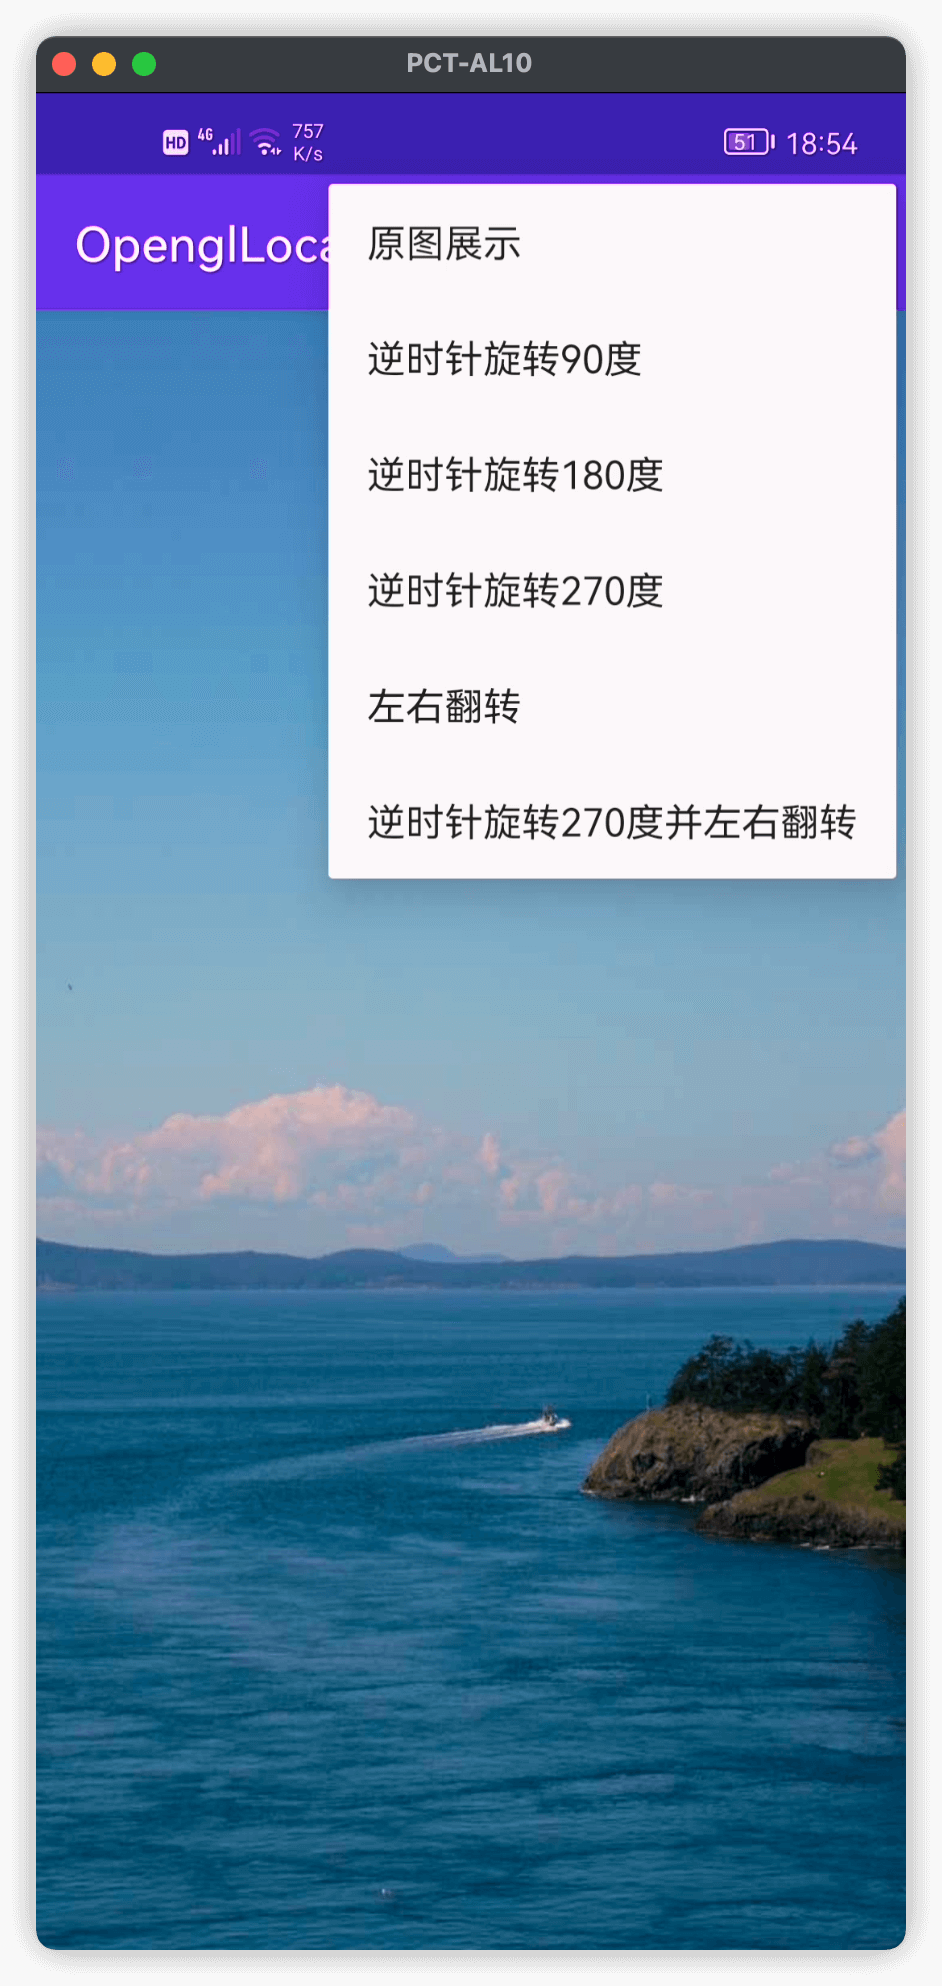
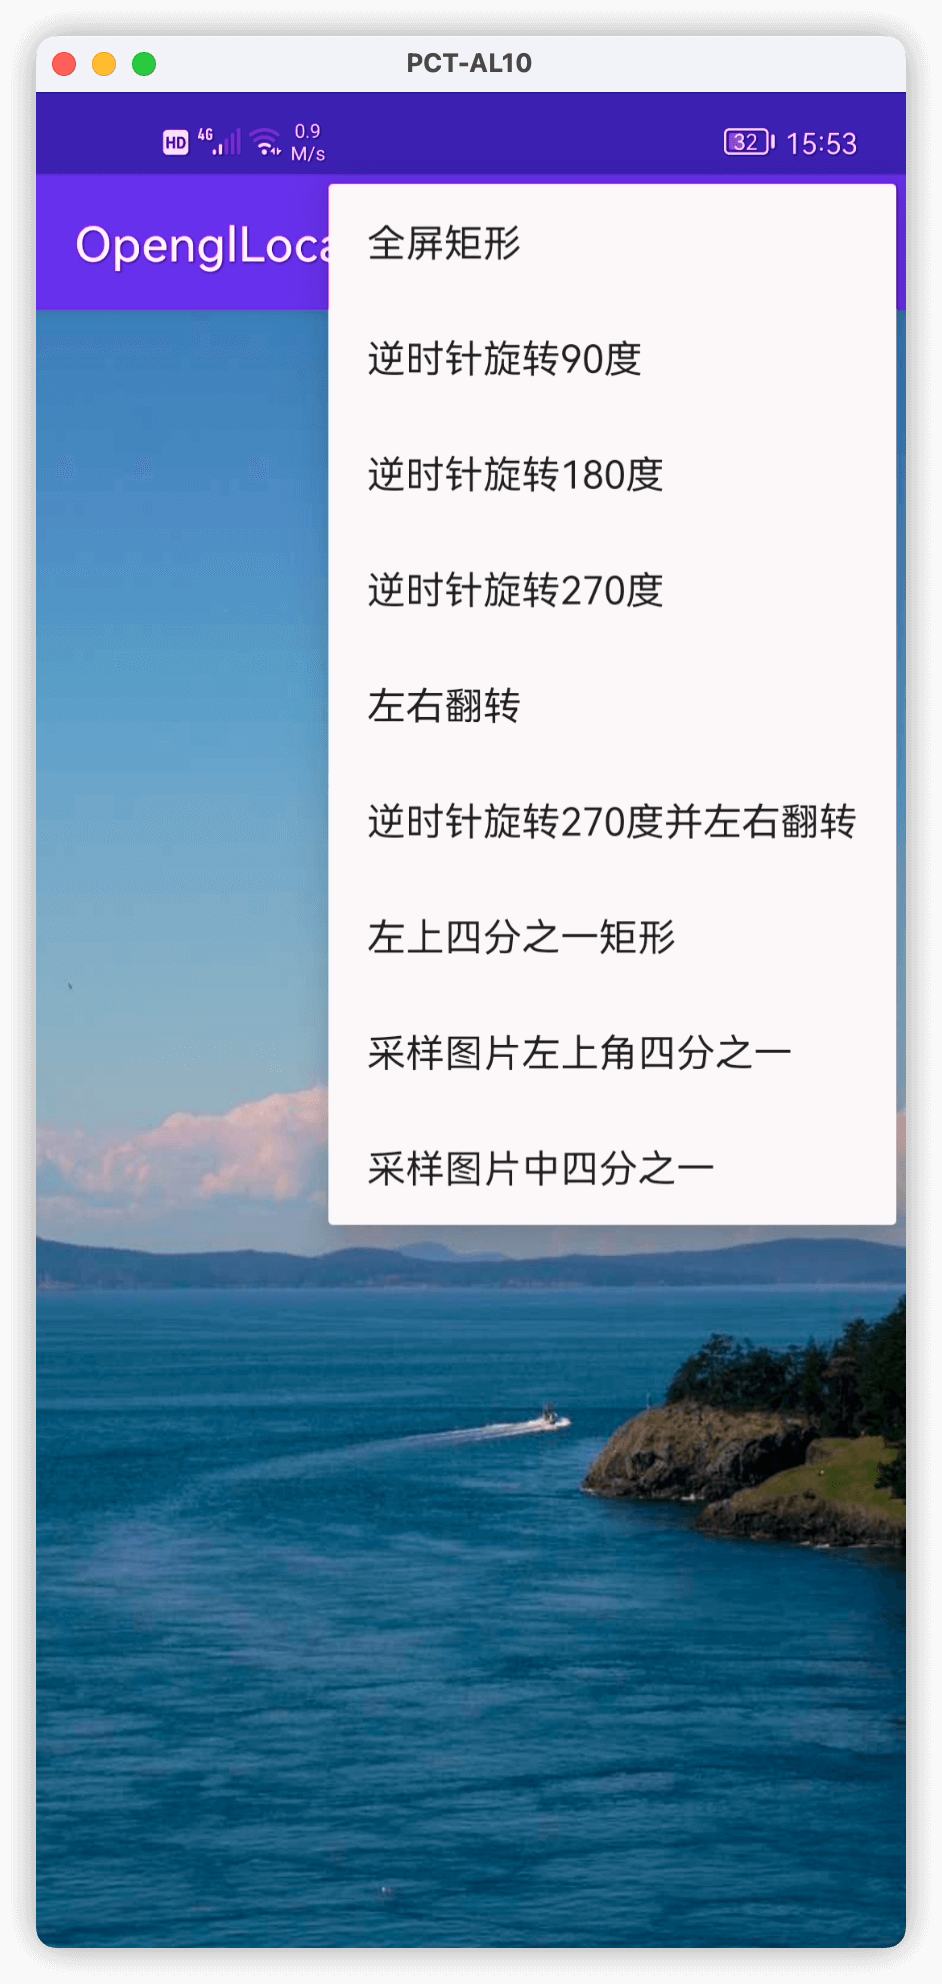
update README.md

Changed region(s): [[0.3386, 0.4375, 0.9544, 0.625], [0.0308, 0.0, 0.9851, 0.0938], [0.4002, 0.0938, 0.5541, 0.1562]]

diff --git a/app/src/main/java/com/skyward/opengllocation/MainActivity.kt b/app/src/main/java/com/skyward/opengllocation/MainActivity.kt
@@ -4,6 +4,7 @@ import android.graphics.BitmapFactory
 import android.opengl.GLES20
 import android.opengl.GLSurfaceView
 import android.os.Bundle
+import android.util.Log
 import android.view.*
 import androidx.appcompat.app.AppCompatActivity
 import com.skyward.opengllocation.databinding.ActivityMainBinding
@@ -11,6 +12,7 @@ import javax.microedition.khronos.egl.EGLConfig
 import javax.microedition.khronos.opengles.GL10
 
 class MainActivity : AppCompatActivity() {
+    private val TAG = "MainActivity"
     lateinit var binding: ActivityMainBinding
     private var mSurfaceView: GLSurfaceView? = null
     private var mTextureId = -1
@@ -31,6 +33,10 @@ class MainActivity : AppCompatActivity() {
 
             override fun onSurfaceChanged(gl: GL10, width: Int, height: Int) {
                 GLES20.glViewport(0, 0, width, height)
+                Log.d(
+                    TAG,
+                    "onSurfaceChanged() called with: gl = $gl, width = $width, height = $height"
+                )
             }
 
             override fun onDrawFrame(gl: GL10) {
@@ -40,13 +46,19 @@ class MainActivity : AppCompatActivity() {
 
     }
 
-    private val resourceId2TextureCoordinateMap  = mutableMapOf<Int, FloatArray>().apply {
-        put(R.id.normal, ImageFilter.TEXTURE_COORDINATE)
+    private val resourceId2TextureCoordinateMap = mutableMapOf<Int, FloatArray>().apply {
+        put(R.id.full_normal_vertex, ImageFilter.TEXTURE_COORDINATE)
         put(R.id.rotate_90, ImageFilter.TEXTURE_ROTATE_90_COORDINATE)
         put(R.id.rotate_180, ImageFilter.TEXTURE_ROTATE_180_COORDINATE)
         put(R.id.rotate_270, ImageFilter.TEXTURE_ROTATE_270_COORDINATE)
         put(R.id.flip, ImageFilter.TEXTURE_FLIP_COORDINATE)
         put(R.id.rotate_270_flip, ImageFilter.TEXTURE_FLIP_270_COORDINATE)
+        put(R.id.clip_top_left_quarter, ImageFilter.TEXTURE_COORDINATE_QUARTER_TOP_LEFT)
+        put(R.id.clip_center_quarter, ImageFilter.TEXTURE_COORDINATE_QUARTER_CENTER)
+    }
+
+    private val resourceId2VertexCoordinateMap = mutableMapOf<Int, FloatArray>().apply {
+        put(R.id.top_left_quarter_rectangle, ImageFilter.VERTEX_COORDINATE_QUARTER_TOP_LEFT_RECTANGLE)
     }
 
     override fun onCreateOptionsMenu(menu: Menu): Boolean {
@@ -56,9 +68,13 @@ class MainActivity : AppCompatActivity() {
     }
 
     override fun onOptionsItemSelected(item: MenuItem): Boolean {
-        val textureCoordinateArray = resourceId2TextureCoordinateMap[item.itemId]
+        val textureCoordinateArray =
+            resourceId2TextureCoordinateMap[item.itemId] ?: ImageFilter.TEXTURE_COORDINATE
+        val vertexCoordinateArray =
+            resourceId2VertexCoordinateMap[item.itemId] ?: ImageFilter.VERTEX_COORDINATE_RECTANGLE
         return if (textureCoordinateArray != null) {
             filter.setTextureCoordinate(textureCoordinateArray)
+            filter.setVertexCoordinateArray(vertexCoordinateArray)
             mSurfaceView?.requestRender()
             true
         } else {

diff --git a/app/src/main/java/com/skyward/opengllocation/ImageFilter.java b/app/src/main/java/com/skyward/opengllocation/ImageFilter.java
@@ -11,18 +11,40 @@ import java.nio.FloatBuffer;
 
 public class ImageFilter {
 
-
+    static final int VERTEX_COORDINATE_2D_SIZE = 2;
+    static final int TEXTURE_COORDINATE_2D_SIZE = 2;
     /**
      * 世界坐标系， 用于描边，确认形状，绘制一个矩形
      * (-1,1)      |     (1,1)
      * -----------------------
      * (-1,-1)    |     (1,-1)
      */
-    static final float WORLD_COORDINATE_RECTANGLE[] = {
+    static final float VERTEX_COORDINATE_RECTANGLE[] = {
             -1.0f, 1.0f, // //左上角坐标
             1.0f, 1.0f,  // 右上角坐标
             -1.0f, -1.0f, // 左下角坐标
             1.0f, -1.0f,  // 右下角坐标
+    };
+
+    static final float VERTEX_COORDINATE_QUARTER_TOP_LEFT_RECTANGLE[] = {
+            -1.0f, 1.0f, // //左上角坐标
+            0.0f, 1.0f,  // 右上角坐标
+            -1.0f, 0.0f, // 左下角坐标
+            0.0f, 0.0f,  // 右下角坐标
+    };
+
+    static final float TEXTURE_COORDINATE_QUARTER_TOP_LEFT[] = {
+            0.0f, 0.0f, //左上角坐标
+            0.5f, 0.0f, //右上角坐标
+            0.0f, 0.5f, //左下角坐标
+            0.5f, 0.5f, //右下角坐标
+    };
+
+    static final float TEXTURE_COORDINATE_QUARTER_CENTER[] = {
+            0.25f, 0.25f, //左上角坐标
+            0.75f, 0.25f, //右上角坐标
+            0.25f, 0.75f, //左下角坐标
+            0.75f, 0.75f, //右下角坐标
     };
 
 
@@ -32,19 +54,19 @@ public class ImageFilter {
      * |(0,0)    |     (1,0)
      * |         |
      * |(0,1)    |     (1,1)
-     *
+     * <p>
      * 逆时针旋转90度
      * -----------------------
      * |(1,0)    |     (1,1)
      * |         |
      * |(0,0)    |     (0,1)
-     *
+     * <p>
      * 逆时针旋转180度
      * -----------------------
      * |(1,1)    |     (0,1)
      * |         |
      * |(1,0)    |     (0,0)
-     *
+     * <p>
      * 逆时针旋转270度
      * -----------------------
      * |(0,1)    |     (0,0)
@@ -120,13 +142,13 @@ public class ImageFilter {
     }
 
     float[] textureCoordinate = TEXTURE_COORDINATE;
+    float[] vertexCoordinateArray = VERTEX_COORDINATE_RECTANGLE;
 
     public void loadVertex() {
-        float[] worldCoordinate = WORLD_COORDINATE_RECTANGLE;
-        mPositionBuffer = ByteBuffer.allocateDirect(worldCoordinate.length * 4)
+        mPositionBuffer = ByteBuffer.allocateDirect(vertexCoordinateArray.length * 4)
                 .order(ByteOrder.nativeOrder())
                 .asFloatBuffer();
-        mPositionBuffer.put(worldCoordinate).position(0);
+        mPositionBuffer.put(vertexCoordinateArray).position(0);
 
         mTextureCubeBuffer = ByteBuffer.allocateDirect(textureCoordinate.length * 4)
                 .order(ByteOrder.nativeOrder())
@@ -134,6 +156,11 @@ public class ImageFilter {
         mTextureCubeBuffer.put(textureCoordinate).position(0);
     }
 
+    public void setVertexCoordinateArray(float[] vertexCoordinateArray) {
+        this.vertexCoordinateArray = vertexCoordinateArray;
+        mPositionBuffer.clear();
+        mPositionBuffer.put(vertexCoordinateArray).position(0);
+    }
 
     public void setTextureCoordinate(float[] textureCoordinate) {
         this.textureCoordinate = textureCoordinate;
@@ -172,26 +199,28 @@ public class ImageFilter {
 
         GLES20.glUseProgram(mProgramId);
         mPositionBuffer.position(0);
-        GLES20.glVertexAttribPointer(mPosition, 2, GLES20.GL_FLOAT, false, 0, mPositionBuffer);
+        // *4 GL_FLOAT占四个字节
+        GLES20.glVertexAttribPointer(mPosition, VERTEX_COORDINATE_2D_SIZE, GLES20.GL_FLOAT,
+                false, VERTEX_COORDINATE_2D_SIZE * 4, mPositionBuffer);
         GLES20.glEnableVertexAttribArray(mPosition);
 
         mTextureCubeBuffer.position(0);
-        GLES20.glVertexAttribPointer(inputTextureBuffer, 2, GLES20.GL_FLOAT, false, 0,
-                mTextureCubeBuffer);
+        GLES20.glVertexAttribPointer(inputTextureBuffer, TEXTURE_COORDINATE_2D_SIZE, GLES20.GL_FLOAT,
+                false, VERTEX_COORDINATE_2D_SIZE * 4, mTextureCubeBuffer);
         GLES20.glEnableVertexAttribArray(inputTextureBuffer);
 
         GLES20.glActiveTexture(GLES20.GL_TEXTURE0);
         GLES20.glBindTexture(GLES20.GL_TEXTURE_2D, glTextureId);
         GLES20.glUniform1i(mInputTexture, 0);
 
-        GLES20.glDrawArrays(GLES20.GL_TRIANGLE_STRIP, 0, 4);
+        GLES20.glDrawArrays(GLES20.GL_TRIANGLE_STRIP, 0,
+                vertexCoordinateArray.length / VERTEX_COORDINATE_2D_SIZE);
 
         GLES20.glDisableVertexAttribArray(mPosition);
         GLES20.glDisableVertexAttribArray(inputTextureBuffer);
         GLES20.glBindTexture(GLES20.GL_TEXTURE_2D, 0);
 
         GLES20.glDisable(GLES20.GL_BLEND);
-
     }
 
 }

diff --git a/README.md b/README.md
@@ -1,13 +1,24 @@
 ## 项目简介
 
-使用OpenCV显示一张图片，并通过调整纹理坐标系和顶点坐标之间的映射关系来实现图片的旋转和翻转。
+使用OpenCV显示一张图片，并通过调整纹理坐标系和顶点坐标之间的映射关系来实现图片的旋转、翻转和裁剪。
 
 希望通过本项目你可以对OpenGL中的纹理坐标系和世界坐标系有更深的了解。
 
 ### 项目相关知识
 
-1. 在OpenGL中，绘制一个矩形或者多边形是通过绘制多个三角形来达成的，因为在三维坐标系（x,y,z)中，三个顶点可以确定一个平面。 
+在OpenGL中，绘制一个矩形或者多边形是通过绘制多个三角形来达成的，因为在三维坐标系（x,y,z)中，三个顶点可以确定一个平面。 
+
+### 1.世界坐标系
+
+<img src="./art/vertex_coordinate.png" alt="世界坐标系" width=300 />
+
+### 2.纹理坐标系
+
+<img src="./art/texture_coordinate.png" alt="纹理坐标系" width=300 />
+
+
 
 ### 项目部分演示
 
-<img src="./art/demo.png" alt="逆时针旋转90度" width=300 /> <img src="./art/demo_normal.png" alt="原图" width=300 /> <img src="./art/demo_rotate_90.png" alt="逆时针旋转90度" width=300 />
+<img src="./art/demo.png" alt="demo" width=300 /> <img src="./art/demo_normal.png" alt="原图" width=300 /> <img src="./art/demo_rotate_90.png" alt="逆时针旋转90度" width=300 />
+<img src="./art/clip_top_left.png" alt="demo" width=300 /> 
